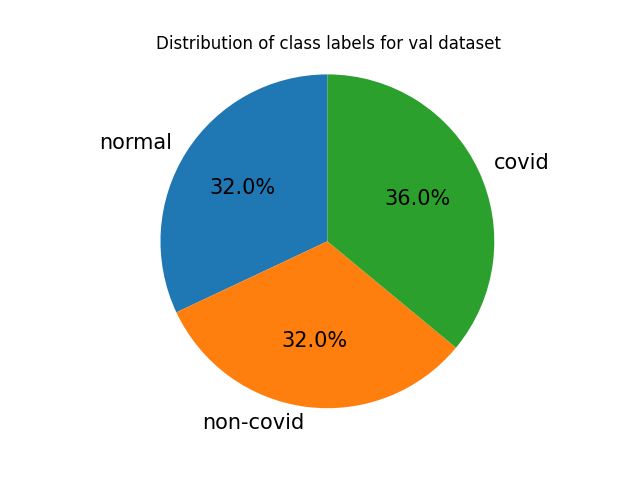
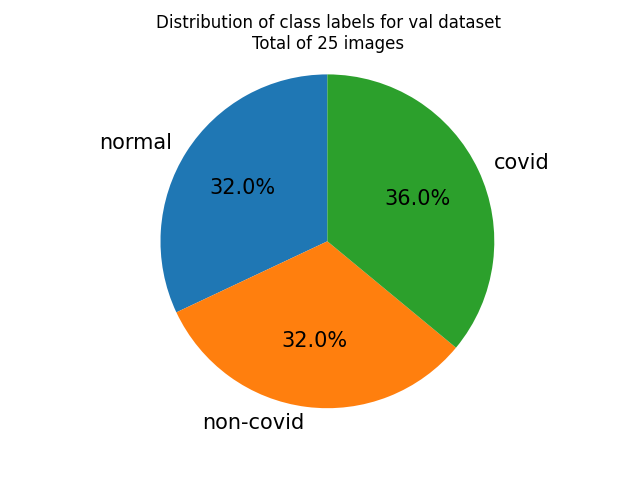
piechart: added in number of samples

Changed region(s): [[0.2188, 0.0312, 0.7812, 0.125]]

diff --git a/visualise.py b/visualise.py
@@ -15,7 +15,7 @@ def chart_dataset_sizes(dataset):
     [_.set_fontsize(15) for _ in autotexts]
     ax1.axis('equal')  # Equal aspect ratio ensures that pie is drawn as a circle.
 
-    ax1.set_title(f"Distribution of class labels for {dataset.dataset_type} dataset")
+    ax1.set_title(f"Distribution of class labels for {dataset.dataset_type} dataset\nTotal of {sum(dataset.dataset_numbers.values())} images")
 
     plt.savefig(f'piechart_{dataset.dataset_type}')
 
